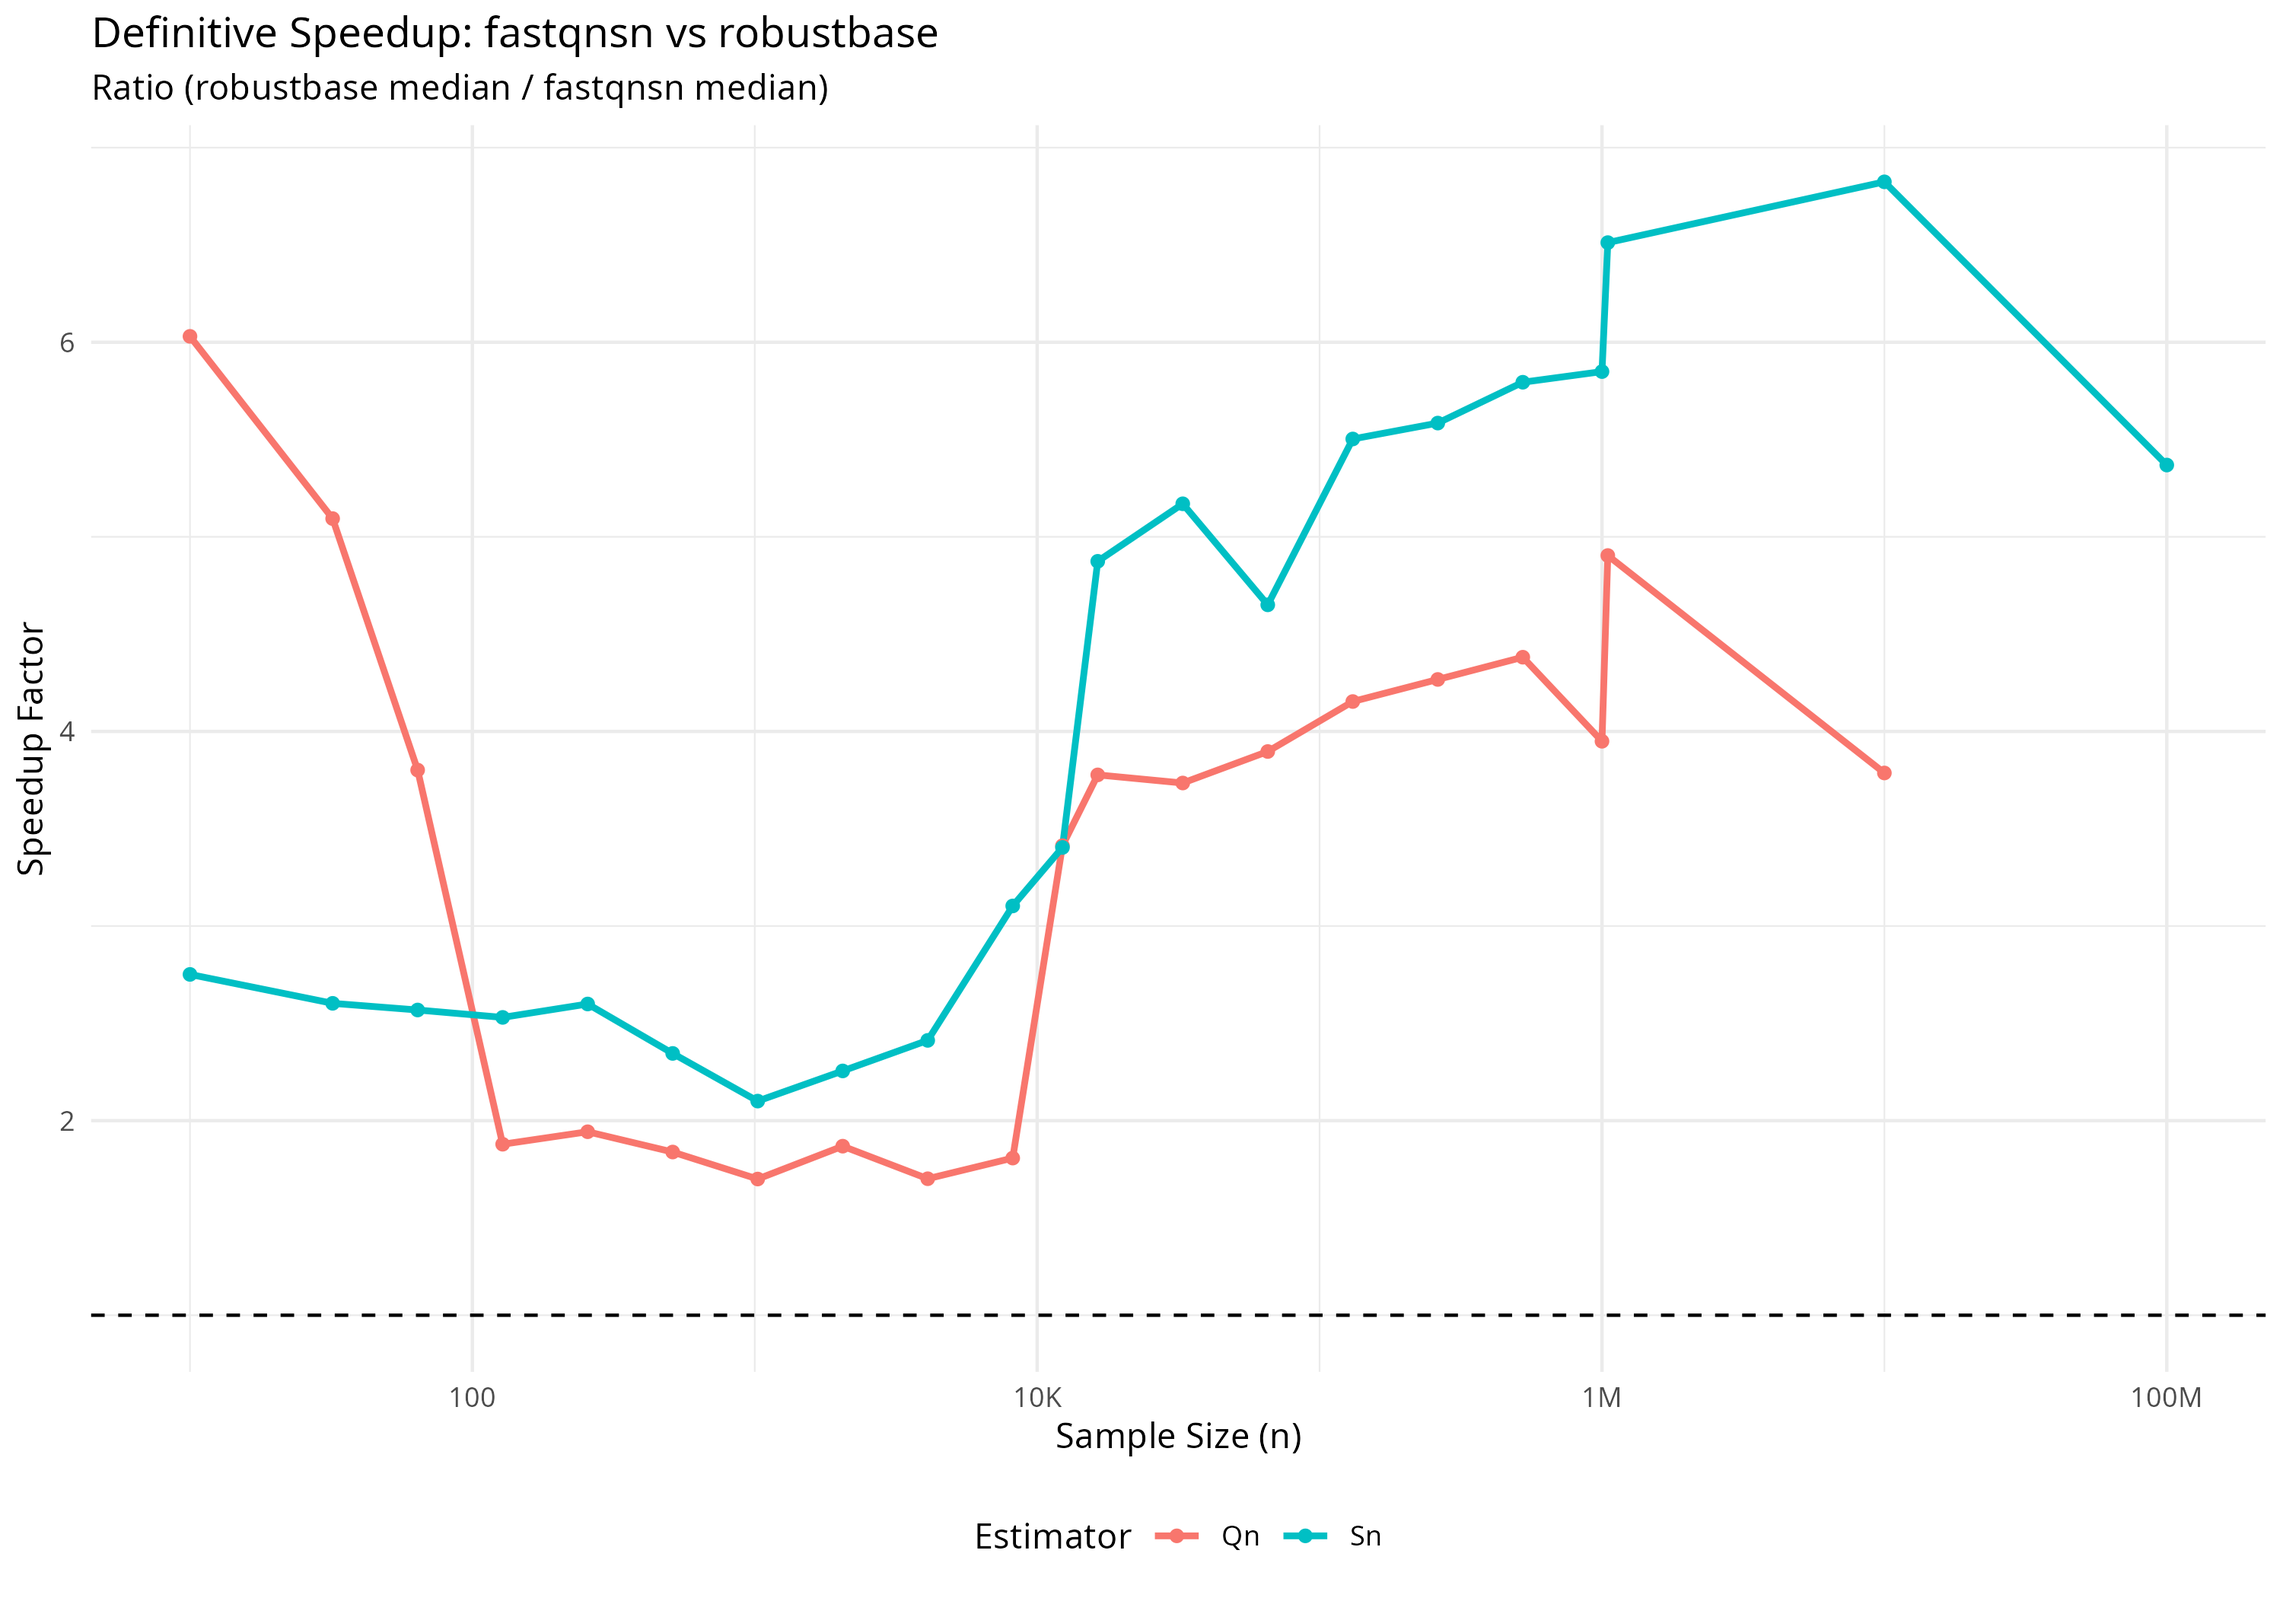
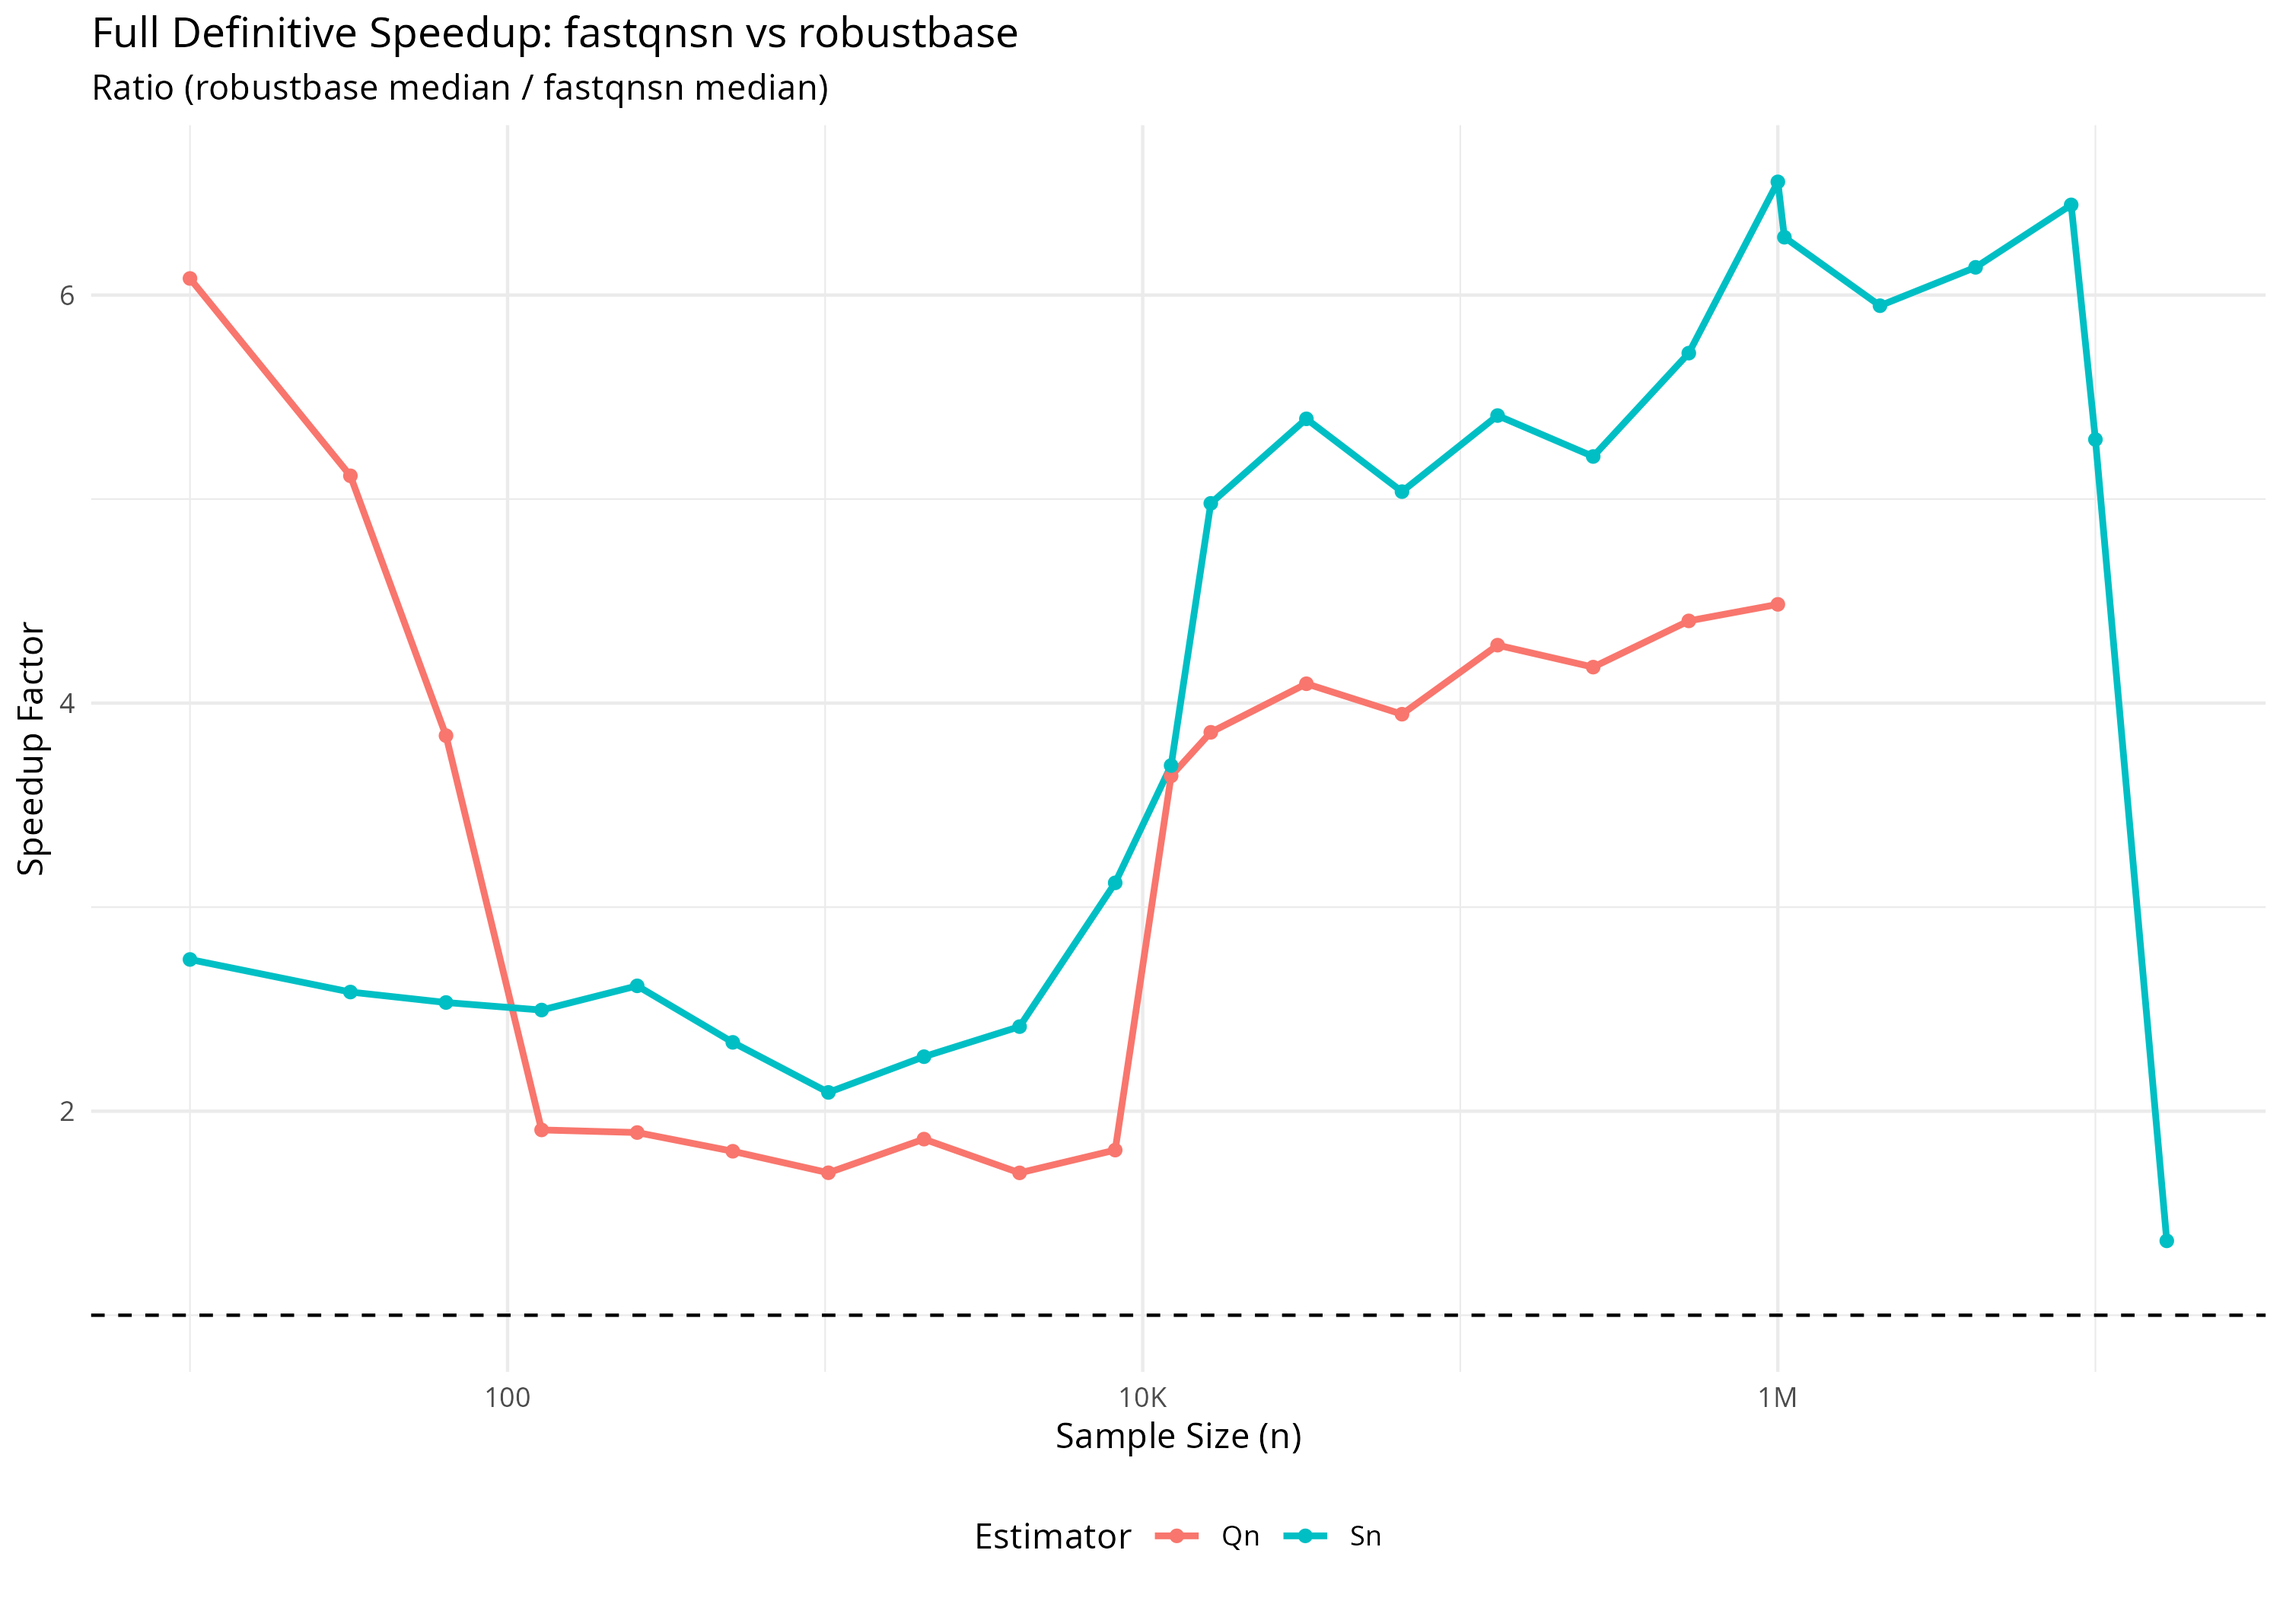
docs: synchronize README with full definitive benchmark results

diff --git a/README.md b/README.md
@@ -54,19 +54,19 @@ Measured on local hardware (detected L2: 512 KB per core).
 
 | Estimator | Min Speedup | Median Speedup | Max Speedup |    At $N$    |
 |:---------:|:-----------:|:--------------:|:-----------:|:------------:|
-|   $S_n$   |  **2.10x**  |   **4.25x**    |  **9.56x**  |  2,097,152   |
-|   $Q_n$   |  **1.45x**  |   **4.05x**    |  **6.03x**  |      10      |
+|   $S_n$   |  **2.09x**  |   **4.35x**    |  **6.55x**  |  1,000,000   |
+|   $Q_n$   |  **1.70x**  |   **3.89x**    |  **6.08x**  |      10      |
 
 ### Speedup at Key Sample Sizes (double precision)
 
 |    $N$    | $S_n$ Speedup | $Q_n$ Speedup | Performance Driver       |
 |----------:|:-------------:|:-------------:|:-------------------------|
-|        10 |     2.75x     |     6.03x     | Local Config Caching     |
-|        64 |     2.57x     |     3.80x     | **Stack Fast-Path** (L1d)|
-|       128 |     2.53x     |     1.88x     | **Stack Fast-Path** (L1d)|
-|     1,024 |     2.10x     |     1.70x     | Optimized Sort Threshold |
-|    16,384 |     4.87x     |     3.78x     | HW-Aware Parallelism     |
-| 1,048,576 |     6.51x     |     4.90x     | TBB Parallel Selection   |
+|        10 |     2.74x     |     6.08x     | Local Config Caching     |
+|        64 |     2.53x     |     3.84x     | **Stack Fast-Path** (L1d)|
+|       128 |     2.50x     |     1.91x     | **Stack Fast-Path** (L1d)|
+|     1,024 |     2.09x     |     1.70x     | Optimized Sort Threshold |
+|    16,384 |     4.98x     |     3.86x     | HW-Aware Parallelism     |
+| 1,000,000 |     6.55x     |     4.48x     | TBB Parallel Selection   |
 
 ### Extreme Scale ($10^8$ Frontier)
 
